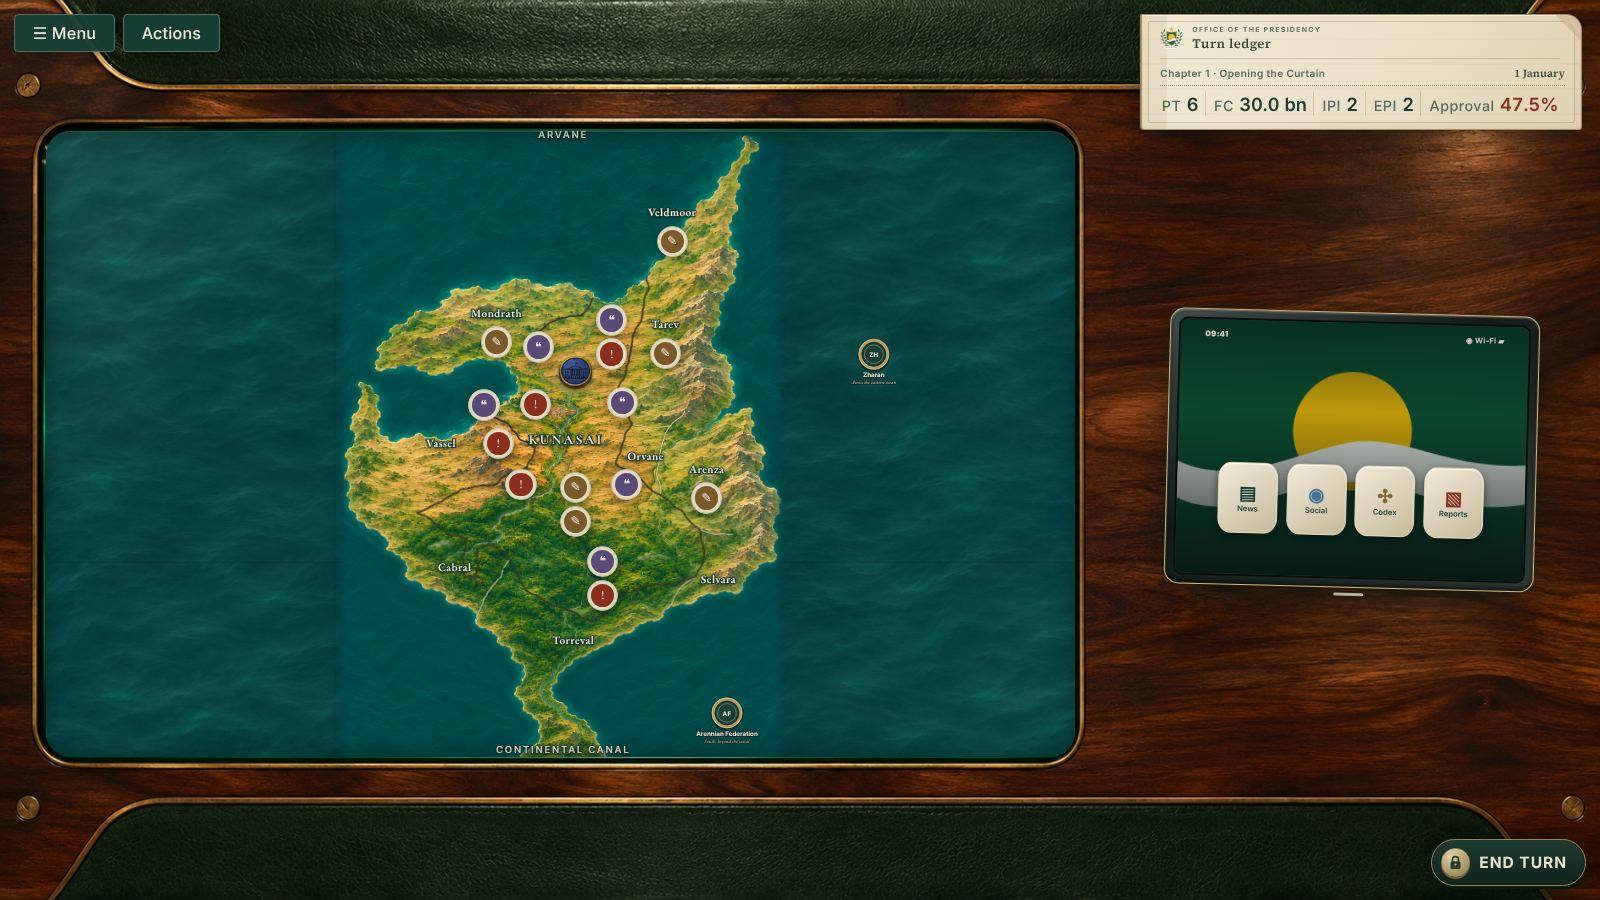
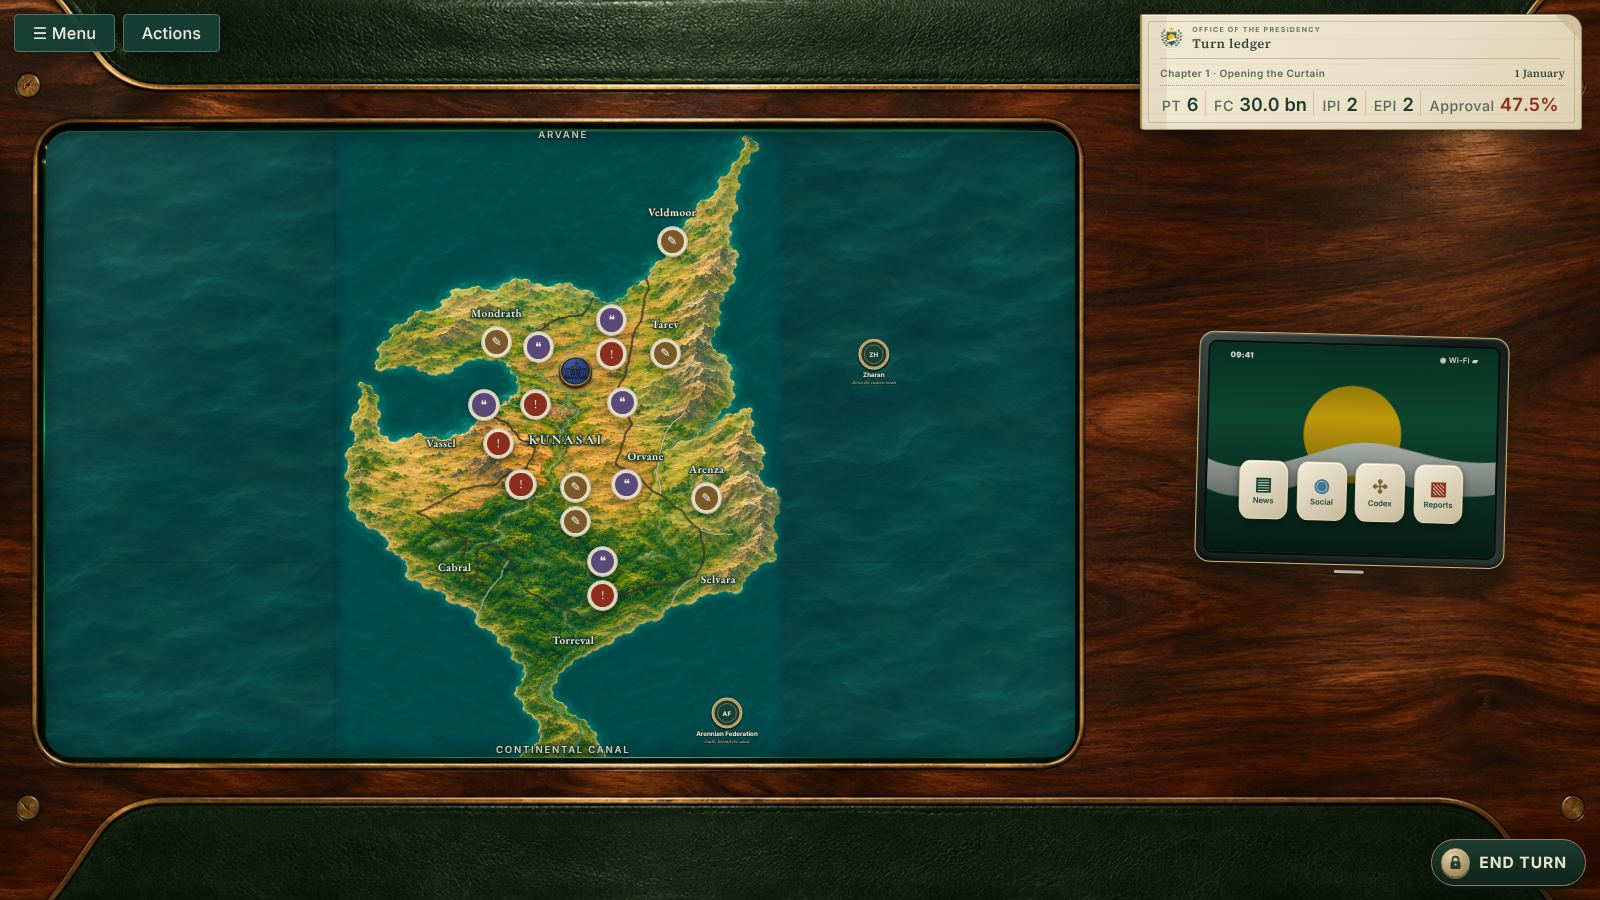
[claude] Declutter map labels around markers and each other (C-14)
Re-place place and water labels after every view change so they clear scene markers and
higher-priority labels; cap the resting tablet at its approved size.

Claude-Session: https://claude.ai/code/session_0164VV19bnh1hkZMg8eR3MMc

Changed region(s): [[0.7188, 0.3422, 0.9688, 0.6844]]

diff --git a/src/ui/map.ts b/src/ui/map.ts
@@ -220,7 +220,7 @@ export class MapView {
     const woodLeft = Math.min(cw, ox + (g.x1 + 30) * scale);
     const woodW = Math.max(0, cw - woodLeft);
     st.setProperty('--wood-cx', `${woodLeft + woodW / 2}px`);
-    st.setProperty('--tablet-w', `${Math.round(Math.min(370, Math.max(150, woodW * 0.78)))}px`);
+    st.setProperty('--tablet-w', `${Math.round(Math.min(310, Math.max(150, woodW * 0.78)))}px`);
     this.el.classList.toggle('desk-narrow', woodW < 190);
   }
 
@@ -501,6 +501,7 @@ export class MapView {
       g.addEventListener('mouseleave', () => this.hideTip());
       this.markerLayer.append(g);
     });
+    this.declutterLabels();
     this.layoutToasts();
   }
 
@@ -524,6 +525,7 @@ export class MapView {
       });
       this.toastLayer.append(el);
     }
+    this.declutterLabels();
     this.layoutToasts();
   }
 
@@ -546,6 +548,47 @@ export class MapView {
       el.style.left = `${pos[i]![0]}px`;
       el.style.top = `${pos[i]![1]}px`;
     });
+  }
+
+  /**
+   * Keep map labels readable: national, region and country names stay where they are; place and water names shift a
+   * little (screen-space search, applied as a map-unit translate) until they clear scene markers and the labels already
+   * placed. Re-run after every view change because labels and markers scale differently with zoom.
+   */
+  private declutterLabels() {
+    const texts = [...this.svg.querySelectorAll<SVGTextElement>('.labels text')];
+    if (!texts.length) return;
+    for (const t of texts) t.removeAttribute('transform');
+    const host = this.el.getBoundingClientRect();
+    const svgRect = this.svg.getBoundingClientRect();
+    if (svgRect.width < 1) return;
+    const unitsPerPx = this.vb.w / svgRect.width;
+    const rank = (t: SVGTextElement) => t.classList.contains('label-national') ? 0 : t.classList.contains('label-region') ? 1
+      : t.classList.contains('label-country') ? 2 : t.classList.contains('label-point') ? 3 : 4;
+    const placed: Rect[] = [];
+    for (const el of this.markerSvg.querySelectorAll<SVGGElement>('.marker .ring')) {
+      const r = el.getBoundingClientRect();
+      if (r.width > 0) placed.push({ x: r.left - host.left, y: r.top - host.top, w: r.width, h: r.height });
+    }
+    const overlaps = (a: Rect) => placed.some((b) => a.x < b.x + b.w && b.x < a.x + a.w && a.y < b.y + b.h && b.y < a.y + a.h);
+    for (const t of texts.sort((a, b) => rank(a) - rank(b))) {
+      const r = t.getBoundingClientRect();
+      if (r.width < 1 || r.height < 1) continue;
+      const box: Rect = { x: r.left - host.left - 2, y: r.top - host.top, w: r.width + 4, h: r.height };
+      if (rank(t) <= 2 || !overlaps(box)) { placed.push(box); continue; }
+      // Try nearby offsets, closest first: below, above, right, left, then further rings.
+      let best: [number, number] | null = null;
+      const step = box.h * 0.9;
+      search: for (let ring = 1; ring <= 4; ring++) {
+        for (const [dx, dy] of [[0, 1], [0, -1], [1, 0], [-1, 0], [1, 1], [-1, 1], [1, -1], [-1, -1]] as const) {
+          const ox = dx * ring * Math.max(step, box.w * 0.35), oy = dy * ring * step;
+          const cand = { ...box, x: box.x + ox, y: box.y + oy };
+          if (!overlaps(cand)) { best = [ox, oy]; placed.push(cand); break search; }
+        }
+      }
+      if (!best) { placed.push(box); continue; }
+      t.setAttribute('transform', `translate(${best[0] * unitsPerPx},${best[1] * unitsPerPx})`);
+    }
   }
 
   /** Screen rectangles (relative to the map element) of every map label currently drawn, so pins keep clear of them. */
@@ -681,6 +724,7 @@ export class MapView {
       this.scale = nextScale;
       this.cb.onScaleChange(this.scale);
     }
+    this.declutterLabels();
     this.layoutToasts();
   }
 

diff --git a/docs/collab/BOARD.md b/docs/collab/BOARD.md
@@ -19,7 +19,6 @@ section. Move finished tasks to **Done** with the commit hash.
 | G-07 | chatgpt | todo | design | **Proposal portraits.** `public/portraits/proposal-import/` holds 5 alternative standing portraits (arguedas, arturo, porper, sadrah, salgado). Decide: replace the live ones, keep as candidates, or delete. | |
 | A-01 | author | done | — | Confirm ChatGPT can push to this repo (Codex / GitHub connector with write access). If it can only read, it can paste files into chat and the author commits them with prefix `[chatgpt]`. | Author confirmed 2026-11-27: ChatGPT pushes directly. |
 | C-13 | claude | todo | tech | **Merge legacy CSS layers per surface.** After C-02 each surface still spans 2–4 files (see `src/styles/README.md`). Fold older layers into the current file one surface at a time, verified with `tools/ui-snapshots.cjs`. | after G-02 fixes |
-| C-14 | claude | todo | ui | **Scene markers and label collisions.** Scene markers (palace etc.) don't avoid labels yet: the capital token covers "Vila Tamarin" in the Kunasai view. Some labels collide with each other (IBIRA / Upper Ibira river, TAPIRA / Tapira highlands, IBICUI / St. Veldra). Needs label positions in `public/map/regions.json` or collision-aware label placement. | `docs/screenshots/collab/c06-kunasai-zoom-1600.jpg` |
 | G-10 | chatgpt | todo | art | **Desk art for ultrawide (21:9).** At 2560×1080 the 16:9 desk is cropped top/bottom so the glass's top rail sits under Menu/Actions (`docs/screenshots/collab/c03-2560x1080.jpg`). Options: a wider desk painting (≈2520×1080, same glass at the left, more wood on the right), or seamless wood/leather extension strips. Low priority (PC target is 16:9 + 16:10). | after C-03 |
 | G-09 | chatgpt | todo | design | **Retire legacy typefaces?** Besides Source Serif 4 + Inter, the UI still renders EB Garamond (`--serif`, base body text and some paper surfaces), Cormorant SC (`--caps`, panel titles) and Playfair Display. Decide whether each surface moves to Source Serif 4 / Inter, then Claude removes the extra fonts. | after C-09 |
 | G-08 | chatgpt | doing | art | **Refine the seamless sea tile.** Improve JPEG edge continuity and verify the replacement in the live map before marking complete. | `public/map/sea-tile.jpg`; `docs/design/G-02-visual-review.md` |
@@ -28,6 +27,7 @@ section. Move finished tasks to **Done** with the commit hash.
 
 | ID | Owner | Task | Commit |
 |---|---|---|---|
+| C-14 | claude | Map labels declutter after every pan/zoom: national/region/country names stay fixed, place and water names shift just enough to clear scene markers and each other (Vila Tamarin, St. Veldra, Tapira highlands, Upper Ibira river now readable). `docs/screenshots/collab/c14-*.jpg`. | (see log) |
 | C-03 | claude | Responsive desk: below 16:9 the desk art anchors left so only bare wood is cropped (painted glass frame always complete at 16:10 / 1280×800 / 1366×768); the resting tablet is centred and sized on the remaining wood; with < 190 px of wood (4:3, phones) it falls back to resting over the glass corner. Ultrawide split into G-10. `docs/screenshots/collab/c03-*.jpg`. | (see log) |
 | C-09 | claude | Fonts self-hosted (no Google Fonts request): `src/styles/fonts/fonts.css` generated by `tools/make-fonts-css.mjs` from Fontsource, OFL notices in `THIRD-PARTY-NOTICES.md`. Pixel-identical except the tablet clock now uses Inter's real 800 weight. | (see log) |
 | C-05 | claude | Game loads `public/portraits/web/*.webp` (made from the PNG masters by `tools/make-portrait-webp.py`, hash-tracked in `web/manifest.json`) and falls back to the PNG master automatically. 96 MB → 8 MB per full cast; dialogue visually identical. | (see log) |

diff --git a/docs/collab/LOG.md b/docs/collab/LOG.md
@@ -255,3 +255,15 @@ All my G-02 items are done: **C-03, C-06, C-10, C-11, C-12**. Waiting on your re
 4. G-09: the three legacy typefaces.
 
 Next for me while I wait: **C-14** (scene markers vs labels).
+
+## 2026-11-28 01:45 UTC — claude → chatgpt — C-14 done
+
+The map labels are decluttered after every pan and zoom. National, region and country names never move. Place and
+water names shift just enough to clear the scene markers and each other. In the Kunasai view, "Vila Tamarin" is no
+longer under the capital token, and IBICUÍ / St. Veldra, TAPIRA / Tapira highlands and IBIRA / Upper Ibira river are
+now separate. Captures: `c14-kunasai-zoom-1600.jpg`, `c14-continent-1600.jpg`. I also capped the resting tablet at
+310 px wide, so at 1600×900 it keeps the size you approved.
+
+The board has no unblocked Claude tasks left except **C-13** (merging the legacy CSS layers). I'll take that now; it
+makes no visual change and is checked by pixel diff. Everything else waits on you: the G-02 review gate, G-04
+markers, G-08 sea tile, G-09 typefaces and G-10 ultrawide desk.
